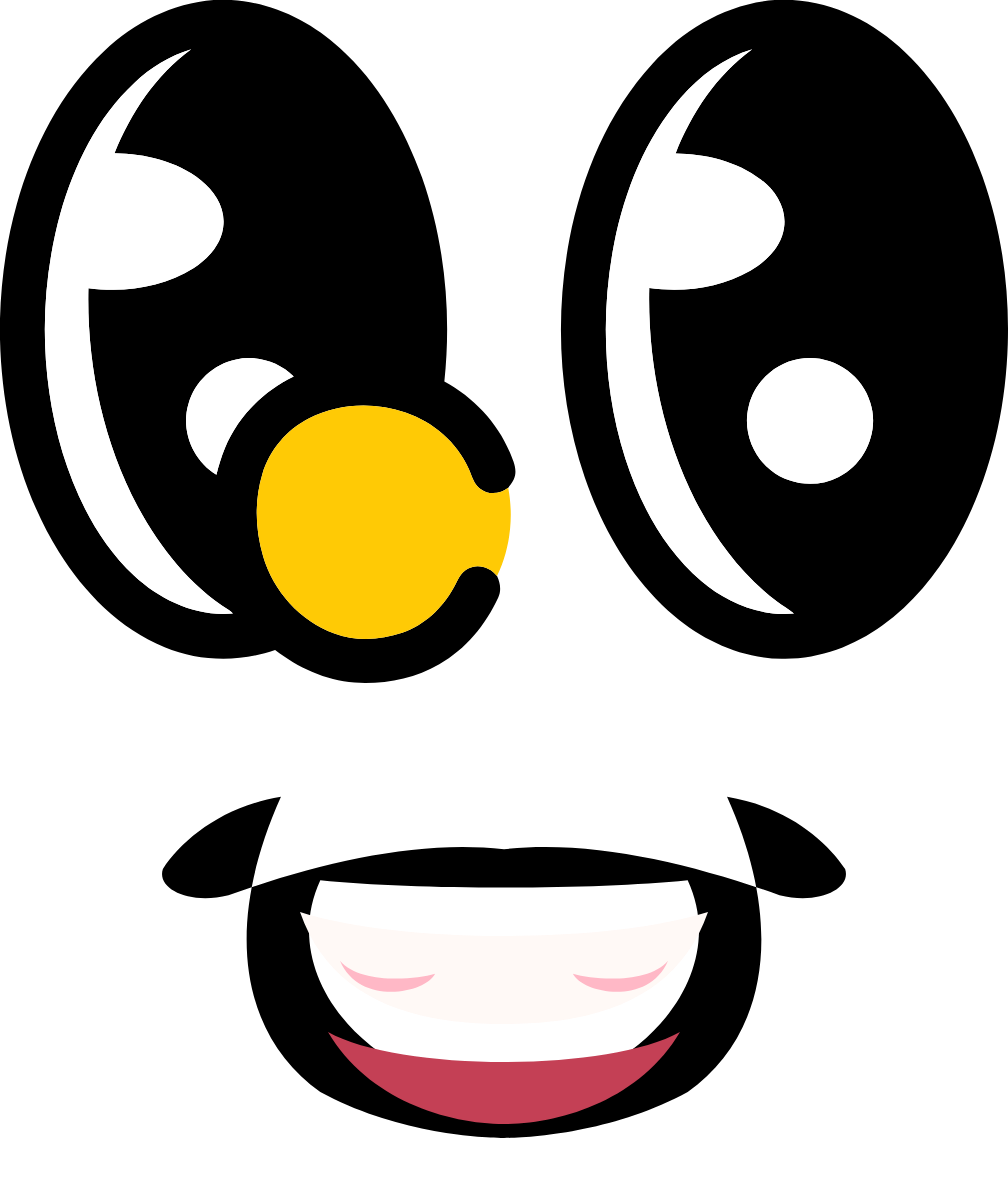
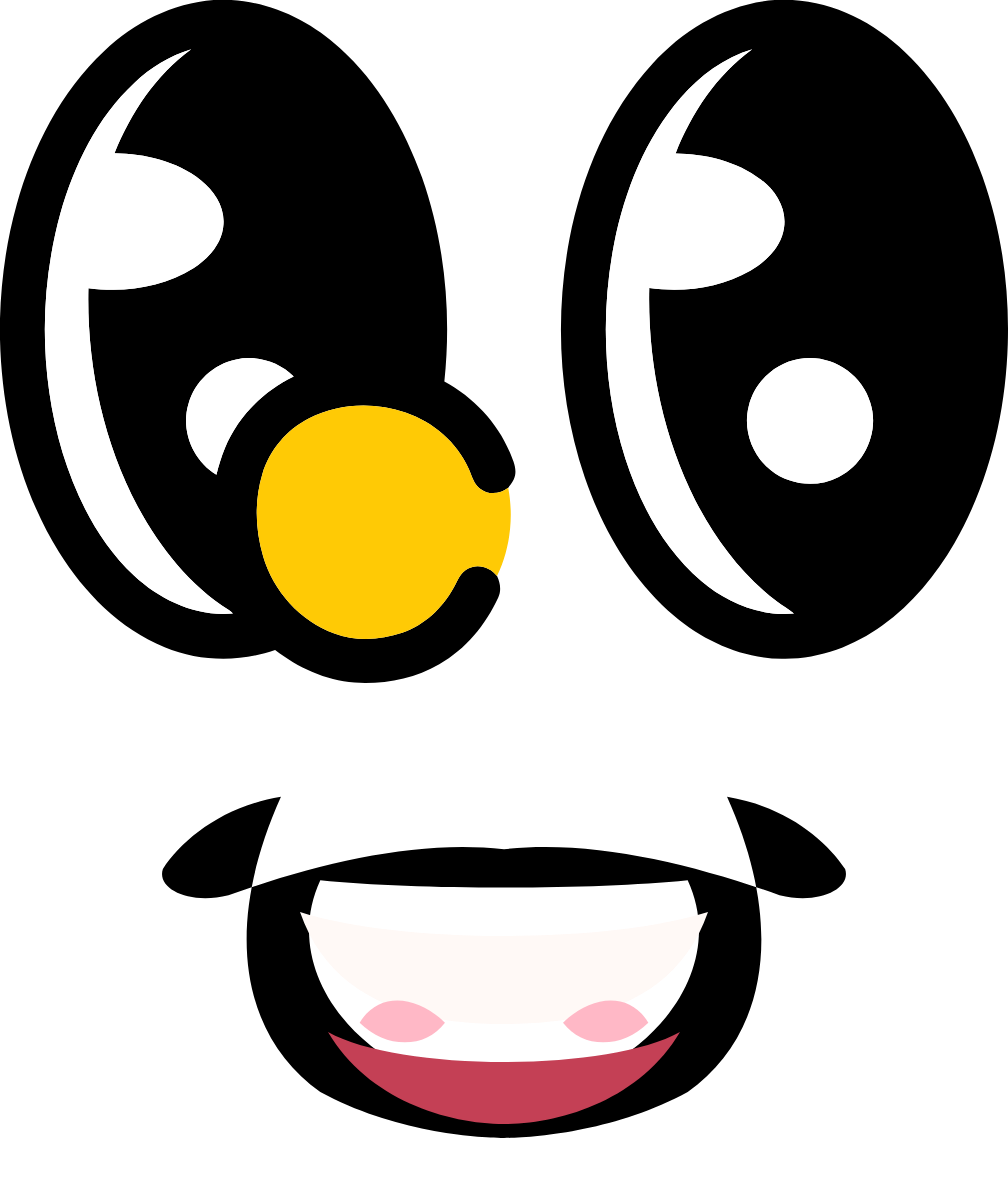
Randomize rest face sequencing; add sleep wake-loop and mood seeds
Replaces the deterministic thoughtful → whistling → sleepy ladder with a
small state machine driven off restTime:

  cheers      < 1.5s             — default Cheers
  idle        1.5s → 6–9s        — face picked from a weighted pool,
                                   swapped every 1.5–3s, with a wink
                                   blink every 1.5–3s on top
  sleep       4–6s holds          — Sleepy
  wake stir   0.5–1.5s            — Curious/Neutral/Talking between sleeps
  long wake   2–3s, 5% chance     — drops back to an idle face briefly

Idle pool weights: Thoughtful 30, Neutral 25, Whistling 20, Curious 15,
Cheers 7, Talking 2, Excited 1. Each rest session rolls a "mood" (50%
chance of biasing one face by 3x) so successive idles aren't identical.

Wink duration bumped 0.15s → 0.8s so the smug expression reads instead
of feeling like a blink.

All randomness is reset on disturbance and on world rebuild via a single
resetRest() helper.

Changed region(s): [[0.3383, 0.8237, 0.4613, 0.8847], [0.5536, 0.8237, 0.6458, 0.8847]]

diff --git a/src/main.js b/src/main.js
@@ -42,21 +42,123 @@ const tune = {
     SLEEPY: true,    // swap to sleepy.svg face after a few seconds of rest
 }
 
-// Rest-time face progression (seconds). The longer the ragdoll sits still,
-// the further the face drifts through an "idle personality" arc.
-//   0           → Cheers (default)
-//   THOUGHTFUL  → Thoughtful (with periodic Winking blinks)
-//   WHISTLING   → Whistling
-//   SLEEPY      → Sleepy
-// Master toggle is tune.SLEEPY; when false the face stays at Cheers regardless.
-const REST_THOUGHTFUL = 1.5
-const REST_WHISTLING = 4.0
-const REST_SLEEPY = 7.0
-const WINK_DURATION = 0.15
+// Rest-time face state machine. The longer the ragdoll sits still, the
+// further its face drifts through an "idle personality" arc.
+//   'cheers'    — just stopped (< REST_SETTLE seconds)
+//   'idle'      — random face from a mood-weighted pool, swapped every
+//                 IDLE_DWELL seconds; periodic Winking blinks layered on top
+//   'sleep'     — Sleepy hold (SLEEP_HOLD seconds)
+//   'wake'      — brief stir between sleeps (WAKE_STIR seconds)
+//   'long_wake' — rare longer wake that drops back to an idle face
+// Master toggle is tune.SLEEPY; when false the face stays at Cheers always.
+const REST_SETTLE = 1.5
+const IDLE_DWELL_MIN = 1.5,  IDLE_DWELL_MAX = 3.0
+const SLEEP_THRESH_MIN = 6.0, SLEEP_THRESH_MAX = 9.0
+const SLEEP_HOLD_MIN = 4.0,  SLEEP_HOLD_MAX = 6.0
+const WAKE_STIR_MIN = 0.5,   WAKE_STIR_MAX = 1.5
+const LONG_WAKE_CHANCE = 0.05
+const LONG_WAKE_MIN = 2.0,   LONG_WAKE_MAX = 3.0
+const WINK_DURATION = 0.8     // hold the smug wink long enough to read
+const WINK_GAP_MIN = 1.5,    WINK_GAP_MAX = 3.0
+
+// Idle face pool with base weights. Mood seeds boost one entry per rest
+// session so successive idles don't feel identical.
+const IDLE_POOL = [
+    { name: 'faceThoughtful', weight: 30 },
+    { name: 'faceNeutral',    weight: 25 },
+    { name: 'faceWhistling',  weight: 20 },
+    { name: 'faceCurious',    weight: 15 },
+    { name: 'face',           weight:  7 },  // Cheers
+    { name: 'faceTalking',    weight:  2 },
+    { name: 'faceExcited',    weight:  1 },
+]
+const WAKE_POOL = ['faceCurious', 'faceNeutral', 'faceTalking']
+
 let restTime = 0
-// Wink scheduling, both measured in restTime seconds (same clock).
+let restPhase = 'cheers'     // see comment above for values
+let phaseUntil = 0            // restTime at which the current phase ends
+let phaseFace = null          // sprite-key string for the current phase
+let sleepThreshold = 0        // restTime at which idle → sleep, per session
+let restMood = null           // { spriteKey: weightMultiplier } or null
 let nextWinkAt = 0
 let winkUntil = 0
+
+function rand(min, max) { return min + Math.random() * (max - min) }
+function pick(arr) { return arr[Math.floor(Math.random() * arr.length)] }
+
+function pickIdleFace(exclude) {
+    let total = 0
+    const entries = []
+    for (const e of IDLE_POOL) {
+        if (e.name === exclude) continue
+        const mult = (restMood && restMood[e.name]) || 1
+        const w = e.weight * mult
+        if (w <= 0) continue
+        total += w
+        entries.push({ name: e.name, w })
+    }
+    let r = Math.random() * total
+    for (const e of entries) if ((r -= e.w) <= 0) return e.name
+    return entries[entries.length - 1].name
+}
+
+function rollMood() {
+    // 50% of rest sessions are unbiased; the rest pick one face to triple-weight.
+    if (Math.random() < 0.5) return null
+    const candidates = IDLE_POOL.filter(e => e.name !== 'face').map(e => e.name)
+    return { [pick(candidates)]: 3 }
+}
+
+function resetRest() {
+    restTime = 0
+    restPhase = 'cheers'
+    phaseUntil = 0
+    phaseFace = null
+    sleepThreshold = 0
+    restMood = null
+    nextWinkAt = REST_SETTLE + 1.0 + 0.5 * Math.random()
+    winkUntil = 0
+}
+
+function advanceRestPhase() {
+    if (restPhase === 'cheers') {
+        if (restTime < REST_SETTLE) return
+        restMood = rollMood()
+        phaseFace = pickIdleFace(null)
+        phaseUntil = restTime + rand(IDLE_DWELL_MIN, IDLE_DWELL_MAX)
+        sleepThreshold = restTime + rand(SLEEP_THRESH_MIN, SLEEP_THRESH_MAX) - REST_SETTLE
+        restPhase = 'idle'
+        return
+    }
+    if (restPhase === 'idle') {
+        if (restTime >= sleepThreshold) {
+            restPhase = 'sleep'
+            phaseFace = 'faceSleepy'
+            phaseUntil = restTime + rand(SLEEP_HOLD_MIN, SLEEP_HOLD_MAX)
+        } else if (restTime >= phaseUntil) {
+            phaseFace = pickIdleFace(phaseFace)
+            phaseUntil = restTime + rand(IDLE_DWELL_MIN, IDLE_DWELL_MAX)
+        }
+        return
+    }
+    if (restPhase === 'sleep' && restTime >= phaseUntil) {
+        if (Math.random() < LONG_WAKE_CHANCE) {
+            restPhase = 'long_wake'
+            phaseFace = pickIdleFace('faceSleepy')
+            phaseUntil = restTime + rand(LONG_WAKE_MIN, LONG_WAKE_MAX)
+        } else {
+            restPhase = 'wake'
+            phaseFace = pick(WAKE_POOL)
+            phaseUntil = restTime + rand(WAKE_STIR_MIN, WAKE_STIR_MAX)
+        }
+        return
+    }
+    if ((restPhase === 'wake' || restPhase === 'long_wake') && restTime >= phaseUntil) {
+        restPhase = 'sleep'
+        phaseFace = 'faceSleepy'
+        phaseUntil = restTime + rand(SLEEP_HOLD_MIN, SLEEP_HOLD_MAX)
+    }
+}
 const deg2rad = (d) => (d * Math.PI) / 180
 
 const BODYPARTS = 1 << 2
@@ -307,9 +409,7 @@ function buildWorld() {
     parts = { shell, ground }
     faceAngle = shell.angle
     faceAngularVel = 0
-    restTime = 0
-    nextWinkAt = REST_THOUGHTFUL + 1.0 + 0.5 * Math.random()
-    winkUntil = 0
+    resetRest()
 }
 
 function drawSprite(body) {
@@ -335,19 +435,19 @@ function chooseFace() {
     if (dragging || mouseConstraint) return sprites.faceSurprised
     // Master toggle: when off, never leave the default face.
     if (!tune.SLEEPY) return sprites.face
-    if (restTime >= REST_SLEEPY) return sprites.faceSleepy
-    if (restTime >= REST_WHISTLING) return sprites.faceWhistling
-    if (restTime >= REST_THOUGHTFUL) {
-        // Thoughtful with occasional ~150ms wink blinks (every 1.5–3s).
+    if (restPhase === 'cheers') return sprites.face
+    // Wink blinks only fire during the 'idle' phase. The wink override sits
+    // on top of whatever idle face is current — when it ends we fall back to
+    // phaseFace, which may have swapped underneath.
+    if (restPhase === 'idle') {
         if (restTime < winkUntil) return sprites.faceWinking
         if (restTime >= nextWinkAt) {
             winkUntil = restTime + WINK_DURATION
-            nextWinkAt = winkUntil + 1.5 + 1.5 * Math.random()
+            nextWinkAt = winkUntil + rand(WINK_GAP_MIN, WINK_GAP_MAX)
             return sprites.faceWinking
         }
-        return sprites.faceThoughtful
     }
-    return sprites.face
+    return sprites[phaseFace] || sprites.face
 }
 
 function drawFace() {
@@ -489,12 +589,9 @@ function updateRest(dt) {
     const still = v < 0.05 && w < 0.1 && !mouseConstraint
     if (still) {
         restTime += dt
+        advanceRestPhase()
     } else {
-        restTime = 0
-        // Push the first wink out so it doesn't fire the instant we re-enter
-        // the thoughtful stage.
-        nextWinkAt = REST_THOUGHTFUL + 1.0 + 0.5 * Math.random()
-        winkUntil = 0
+        resetRest()
     }
 }
 window.__ragdoll = {